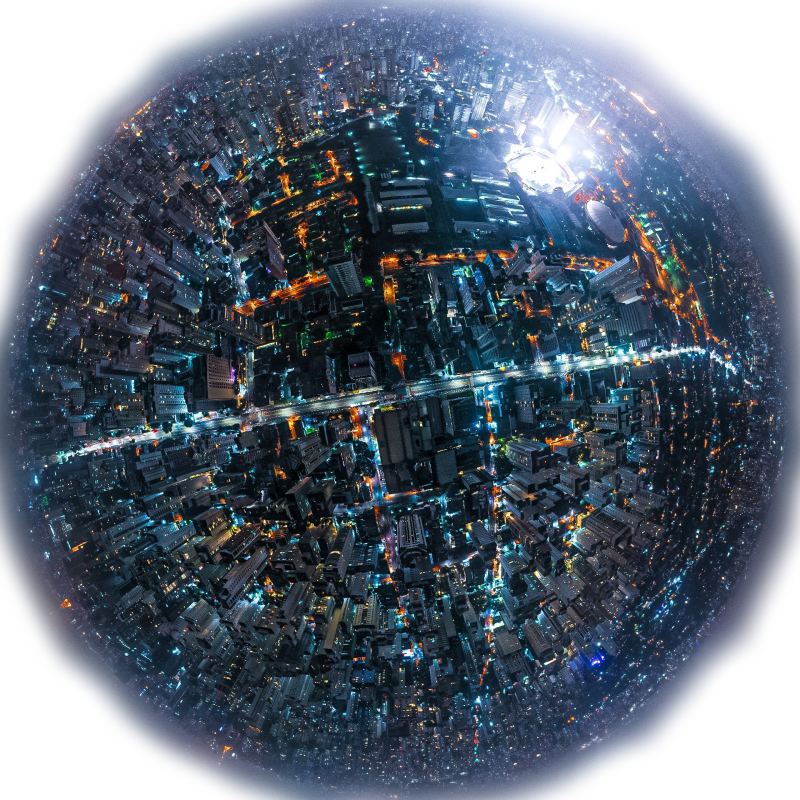
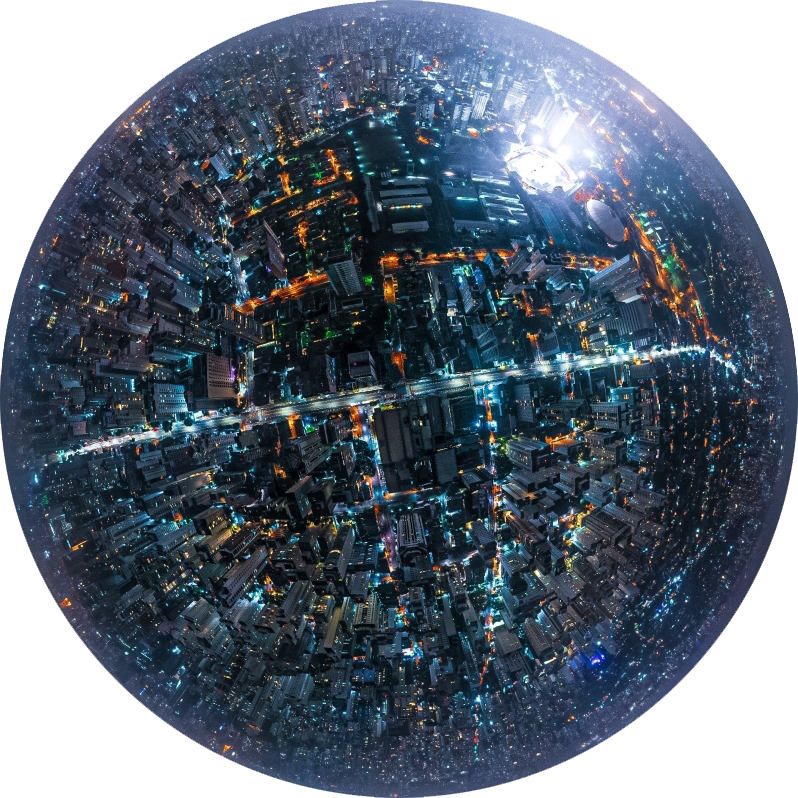
added planet collection page styling & animation

diff --git a/src/components/box3d/box3d.styles.scss b/src/components/box3d/box3d.styles.scss
@@ -1,0 +1,158 @@
+.box3d__wrapper {
+  color: #fff;
+  width: 100%;
+  //   height: 100%;
+  perspective: 80rem;
+  position: relative;
+
+  .img-wrapper {
+    animation: float 4s cubic-bezier(0.39, 0.575, 0.565, 1) infinite alternate;
+    position: absolute;
+    bottom: 20%;
+    right: 0%;
+    //   transform: translate(-50%, -50%);
+    pointer-events: none;
+    backface-visibility: hidden;
+    //   width: 50px;
+
+    img {
+      transform-origin: top right;
+      transition: transform 300ms cubic-bezier(0.39, 0.575, 0.565, 1);
+      transition-delay: 100ms;
+      transform: translateX(35%) rotateZ(13deg);
+      pointer-events: none;
+      width: 60%;
+    }
+  }
+}
+
+.box3d__card {
+  width: 35rem;
+  height: 50rem;
+  position: relative;
+  transform-style: preserve-3d;
+  transform: translateZ(-14rem);
+  transition: transform 350ms cubic-bezier(0.39, 0.575, 0.565, 1);
+  cursor: pointer;
+
+  .front {
+    background-image: linear-gradient(
+      180deg,
+      rgba(255, 255, 255, 0.253) 0%,
+      rgba(92, 91, 94, 0) 100%
+    );
+    transform: rotateY(0deg) translateZ(16rem);
+    border-radius: 1rem 0.2rem 0 0;
+    text-align: center;
+
+    .price {
+      position: absolute;
+      bottom: 34px;
+      left: 50%;
+      transform: translateX(-50%);
+      font-size: 34px;
+      opacity: 0.34;
+    }
+
+    // h1,
+    // p,
+    // .price {
+    //   color: black;
+    // }
+
+    h1 {
+      padding-top: 2rem;
+      margin: 0;
+      font-size: 3rem;
+      //   letter-spacing: -0.25px;
+      //   transform: translateX(-44px);
+      text-align: center;
+      font-weight: 600;
+    }
+
+    p {
+      text-align: center;
+      //   margin: 0;
+      font-weight: 400;
+      font-size: 16px;
+    }
+  }
+
+  .right {
+    background-image: linear-gradient(
+      0deg,
+      rgba(255, 255, 255, 0.438) 0%,
+      rgba(92, 91, 94, 0) 100%
+    );
+    opacity: 0.08;
+    transform: rotateY(90deg) translateZ(16rem);
+    border-radius: 0 0 1rem 0.2rem;
+
+    display: flex;
+    flex-direction: column;
+
+    // justify-content: center;
+    align-items: center;
+
+    div:nth-child(2) {
+      //   margin-top: 20%;
+      justify-self: flex-end;
+      //   align-items: center;
+    }
+
+    ul {
+      //   margin-left: 21px;
+      //   padding: 0;
+      text-align: center;
+      font-size: 2.1rem;
+      font-weight: 200;
+      list-style: none;
+      margin-bottom: 24rem;
+    }
+
+    li {
+      padding-bottom: 1rem;
+      position: relative;
+    }
+  }
+}
+
+.box3d__card > div {
+  position: absolute;
+  width: 32rem;
+  height: 45rem;
+  //   padding: 3rem 2rem;
+  transition: all 350ms cubic-bezier(0.39, 0.575, 0.565, 1);
+}
+
+.box3d__card:hover {
+  transform: translateZ(-16rem) rotateY(-90deg);
+}
+
+.box3d__card:hover .front {
+  opacity: 0;
+}
+
+.box3d__card:hover .right {
+  opacity: 1;
+}
+
+@keyframes float {
+  0% {
+    transform: translateZ(20px);
+  }
+  100% {
+    transform: translateY(-21px) translateZ(30px);
+  }
+}
+
+.box3d__card:hover ~ .img-wrapper img {
+  transform: scale(0.9) translateX(40%) translateY(90%) rotateZ(80deg);
+}
+
+@keyframes fadeIn {
+  0% {
+    opacity: 0.33;
+    transform: scale(0.89);
+  }
+}

diff --git a/src/redux/planet/planet.reducer.js b/src/redux/planet/planet.reducer.js
@@ -6,6 +6,9 @@ import planet3 from "../../assets/planet-3.jpeg";
 import planet1_800 from "../../assets/planet-1_800.jpg";
 import planet2_800 from "../../assets/planet-2_800.jpg";
 import planet3_800 from "../../assets/planet-3_800.jpg";
+import planet1_800_trans from "../../assets/planet-1_800_trans.png";
+import planet2_800_trans from "../../assets/planet-2_800_trans.png";
+import planet3_800_trans from "../../assets/planet-3_800_trans.png";
 
 import planet1_pt1 from "../../assets/planet1-presentation1.jpeg";
 import planet1_pt2 from "../../assets/planet1-presentation2.jpeg";
@@ -46,6 +49,7 @@ const INITIAL_STATE = {
       bgimage: city1bg,
       pageIntro: planet1_intro,
       thumbnails: [planet1, planet1_pt1, planet1_pt2, planet1_pt3, planet1_pt4],
+      collectionThumb: planet1_800_trans,
       presentation: [planet1_pt1, planet1_pt2, planet1_pt3],
       headline: "The most technically advanced city in universe",
       featureImage: planet1_feature,
@@ -87,6 +91,7 @@ const INITIAL_STATE = {
       bgimage: city2bg,
       pageIntro: planet2_intro,
       thumbnails: [planet2_intro, planet2_pt1, planet2_pt2, planet2_pt3, city2],
+      collectionThumb: planet2_800_trans,
       presentation: [planet2_pt1, planet2_pt2, planet2_pt3],
       headline: "Planet that keeps natural beauty of universe",
       featureImage: planet2_feature,
@@ -128,6 +133,7 @@ const INITIAL_STATE = {
       bgimage: city3bg,
       pageIntro: planet3_intro,
       thumbnails: [planet3_intro, planet3_pt1, planet3_pt2, planet3_pt3, city3],
+      collectionThumb: planet3_800_trans,
       presentation: [planet3_pt1, planet3_pt2, planet3_pt3],
       headline: "Planet that has floating land",
       featureImage: planet3_feature,

diff --git a/src/components/collectionThumbnail/collectionThumbnail.styles.scss b/src/components/collectionThumbnail/collectionThumbnail.styles.scss
@@ -1,33 +1,33 @@
 .collection-thumb {
-  &__text {
-    position: absolute;
-    bottom: 15%;
-    left: 50%;
-    transform: translate(-50%, -50%);
+  // &__text {
+  //   position: absolute;
+  //   bottom: 15%;
+  //   left: 50%;
+  //   transform: translate(-50%, -50%);
 
-    color: #fff;
-    font-size: 1.3rem;
-    white-space: nowrap;
-    font-weight: 200;
-  }
+  //   color: #fff;
+  //   font-size: 1.3rem;
+  //   white-space: nowrap;
+  //   font-weight: 200;
+  // }
 
-  &__content {
-    position: relative;
-    overflow: hidden;
-    object-fit: cover;
-    // backface-visibility: hidden;
-    // clip-path: circle(50% at 50% 50%);
-    // height: 20rem;
-    cursor: pointer;
+  // &__content {
+  //   position: relative;
+  //   overflow: hidden;
+  //   object-fit: cover;
+  //   // backface-visibility: hidden;
+  //   // clip-path: circle(50% at 50% 50%);
+  //   // height: 20rem;
+  //   cursor: pointer;
 
-    img {
-      width: 100%;
-      //   height: 100%;
+  //   img {
+  //     width: 100%;
+  //     //   height: 100%;
 
-      &:hover {
-        transform: scale(1.1, 1.1);
-        transition: all 0.5s;
-      }
-    }
-  }
+  //     &:hover {
+  //       transform: scale(1.1, 1.1);
+  //       transition: all 0.5s;
+  //     }
+  //   }
+  // }
 }

diff --git a/src/components/box3d/box3d.component.jsx b/src/components/box3d/box3d.component.jsx
@@ -1,0 +1,49 @@
+import React from "react";
+
+import Button from "../button/button.component";
+
+import "./box3d.styles.scss";
+
+const Box3d = ({ props }) => {
+  console.log("🍋 box3d props:", props);
+
+  return (
+    <div>
+      <div className="box3d__wrapper">
+        <div className="box3d__card">
+          <div className="front">
+            <h1>{props.title}</h1>
+            <p>
+              {props.subtitle}
+              {/* <span>2018</span> */}
+            </p>
+            <p className="price">${props.price}</p>
+          </div>
+          <div className="right">
+            {/* <h2>{props.title}</h2> */}
+            <ul>
+              {props.feature.map((el) => (
+                <li>{el.subject}</li>
+              ))}
+            </ul>
+            <Button
+              text={["Learn more"]}
+              // style={{
+              //   "--bg-color": "rgb(12, 12, 12)",
+              //   "--font-color-hover": "black",
+              // }}
+            />
+          </div>
+        </div>
+        <div className="img-wrapper">
+          <img
+            src={props.collectionThumb}
+            alt={`${props.title}-collection-thumb`}
+          />
+        </div>
+      </div>
+    </div>
+  );
+};
+
+export default Box3d;

diff --git a/src/components/collectionThumbnail/collectionThumbnail.component.jsx b/src/components/collectionThumbnail/collectionThumbnail.component.jsx
@@ -1,7 +1,10 @@
 import React from "react";
-import "./collectionThumbnail.styles.scss";
+
+import Box3d from "../box3d/box3d.component";
 
 import { Link, useRouteMatch } from "react-router-dom";
+
+import "./collectionThumbnail.styles.scss";
 
 const CollectionThumbnail = ({ props }) => {
   const match = useRouteMatch();
@@ -13,8 +16,9 @@ const CollectionThumbnail = ({ props }) => {
         to={`${match.url}/${props.slug}`}
         className="collection-thumb__content"
       >
-        <img className={props.name} alt={props.name} src={props.image} />
-        <h3 className="collection-thumb__text">{props.name}</h3>
+        <Box3d props={props} />
+        {/* <img className={props.name} alt={props.name} src={props.image} />
+        <h3 className="collection-thumb__text">{props.name}</h3> */}
       </Link>
     </div>
   );

diff --git a/src/components/collection/collection.styles.scss b/src/components/collection/collection.styles.scss
@@ -1,11 +1,13 @@
 @import "../../global.style.scss";
 
 .collection {
-  //   background-color: black;
+  // background-color: black;
   width: 100vw;
+  min-height: 100vh;
   display: grid;
   grid-template-columns: 1fr minmax(min-content, 60rem) 1fr;
   grid-template-rows: 1fr, min-content;
+  background-color: rgb(0, 0, 0);
 
   &__title {
     @include subTitle;
@@ -18,7 +20,7 @@
     display: grid;
     grid-template-columns: repeat(auto-fit, minmax(min-content, 15rem));
     justify-content: center;
-    column-gap: 1rem;
+    column-gap: 5rem;
     // backface-visibility: hidden;
   }
 }

diff --git a/src/components/navbar/navbar.component.jsx b/src/components/navbar/navbar.component.jsx
@@ -30,7 +30,9 @@ const NavBar = (props) => {
   return (
     <div ref={navRef} className="navbar">
       <div className="navbar__wrapper">
-        <div className="navbar__logo"> SPACE Y</div>
+        <div className="navbar__logo">
+          <Link to="/">SPACE Y</Link>
+        </div>
         <ul className="navbar__links">
           <li className="link--moon">
             <Link to="/planets">planets</Link>
